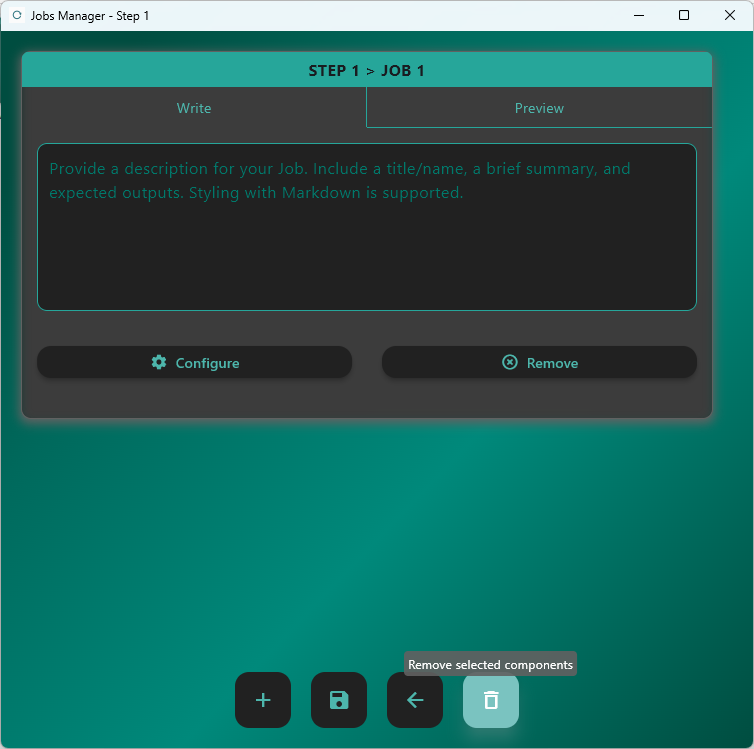
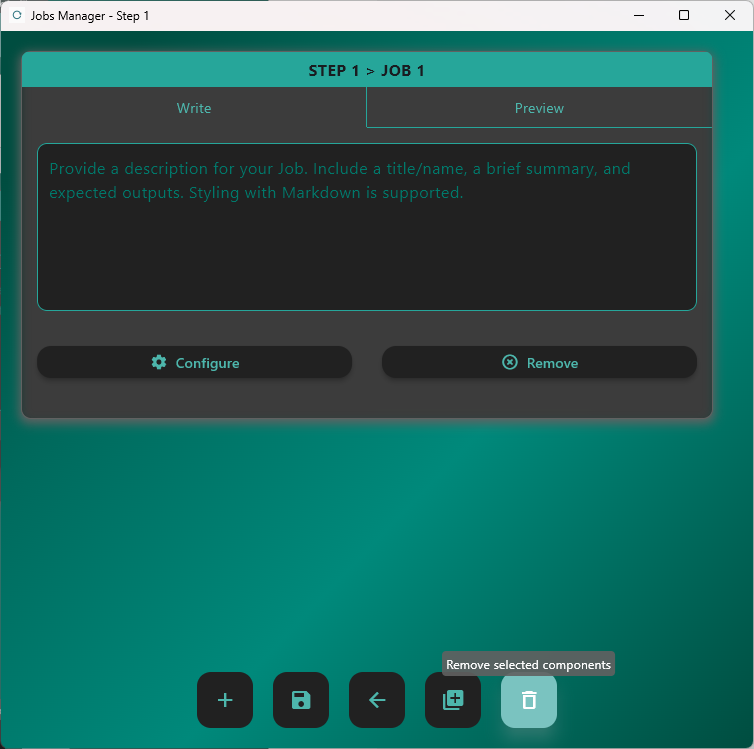
Duplicate job ref and add tasks

Changed region(s): [[0.244, 0.8598, 0.8236, 0.9826], [0.0, 0.9826, 0.0305, 1.0]]

diff --git a/docs/usage/interface_reference.rst b/docs/usage/interface_reference.rst
@@ -217,6 +217,13 @@ Jobs Window
    :alt: Back button in jobs window
    :width: 640
 
+
+**Duplicate Job**
+
+.. image:: ../_static/stata_small_example/04_jobs_window/05_jobs_window_duplicate_job.png
+   :alt: Duplicate selected job
+   :width: 640
+
 **Remove Selected Jobs**
 
 .. image:: ../_static/stata_small_example/04_jobs_window/05_jobs_window_remove_selected.png
